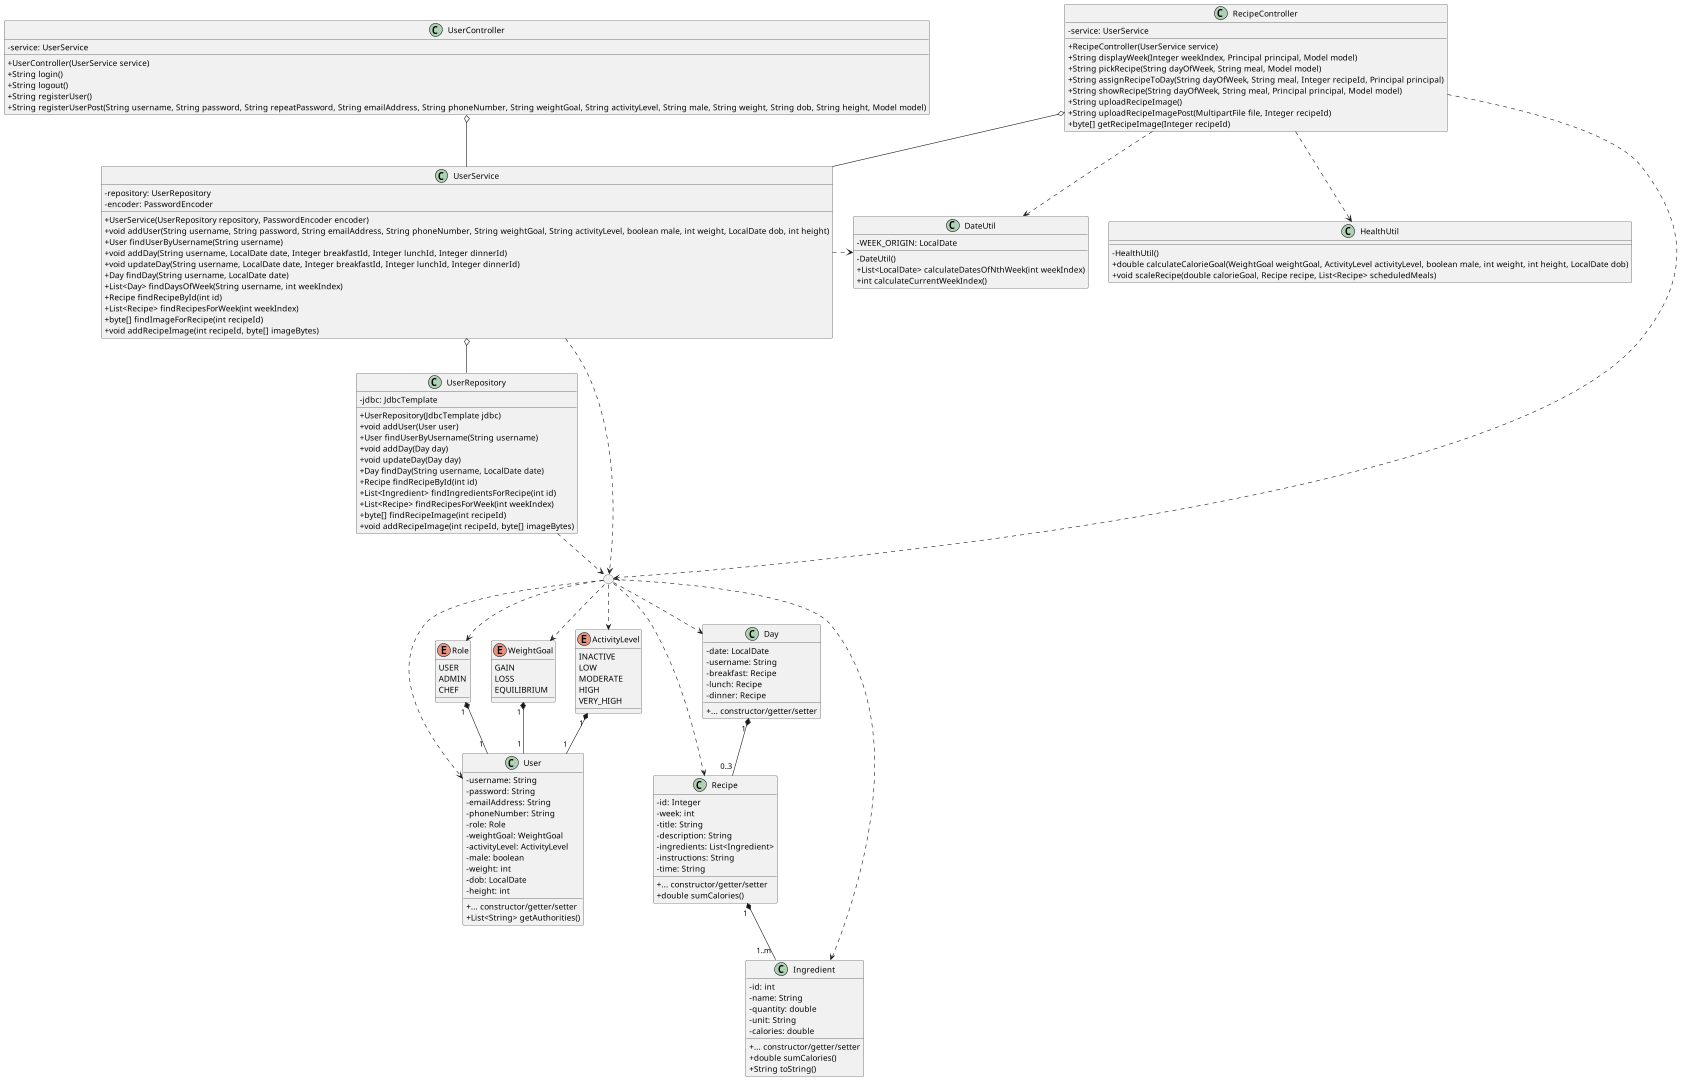
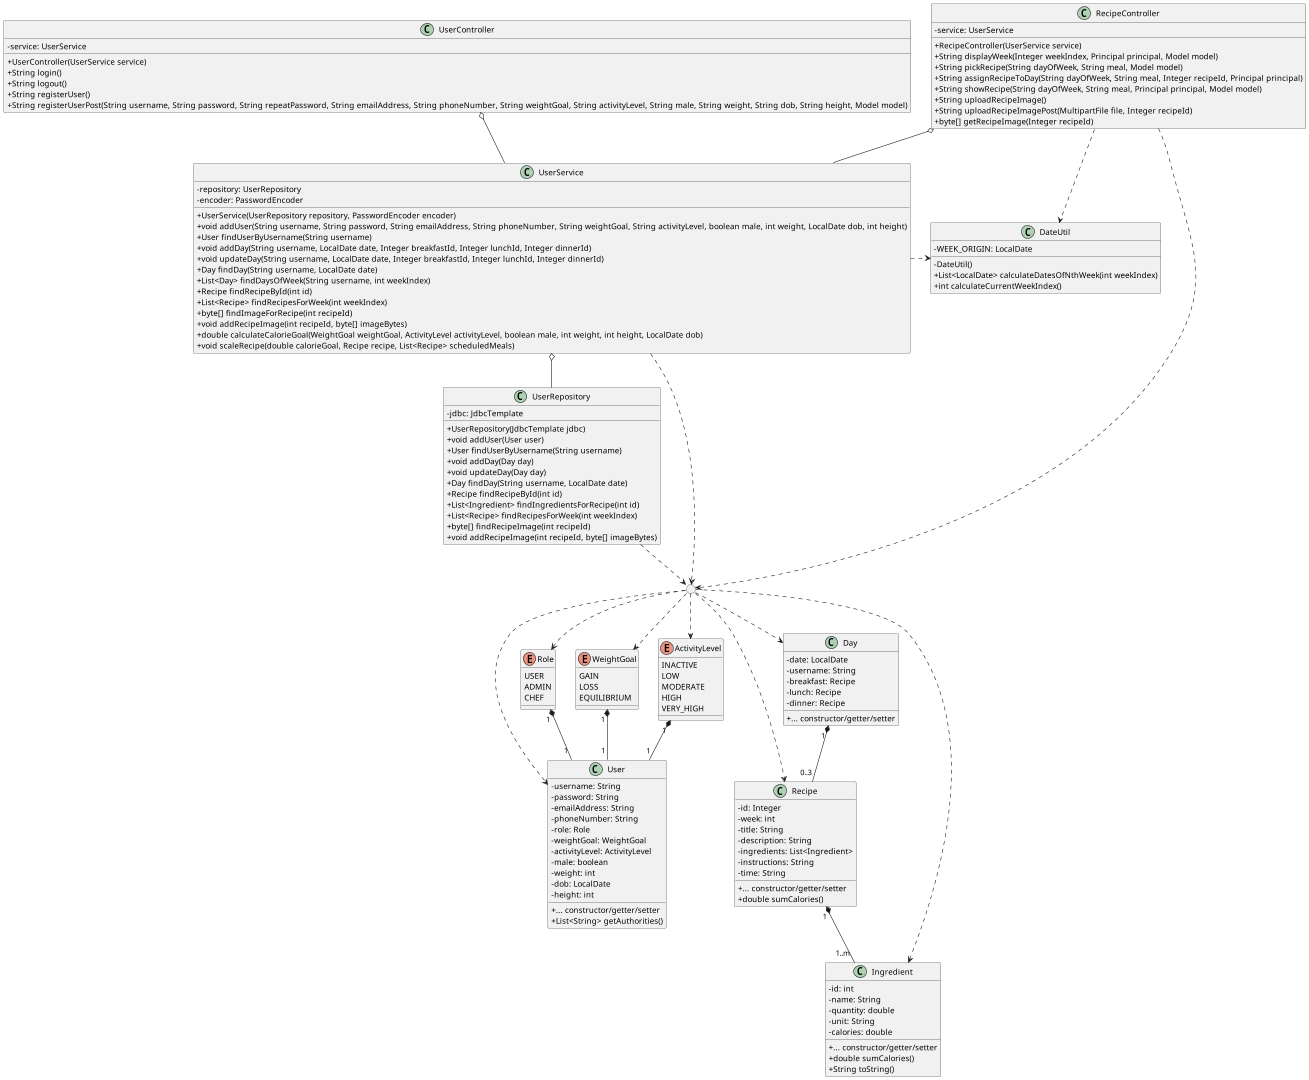
feat: delete HealthUtil

diff --git a/src/main/java/com/example/kostplan/service/UserService.java b/src/main/java/com/example/kostplan/service/UserService.java
@@ -9,9 +9,10 @@ import org.springframework.security.access.prepost.PreAuthorize;
 import org.springframework.security.crypto.password.PasswordEncoder;
 import org.springframework.stereotype.Service;
 
-import javax.xml.crypto.Data;
 import java.time.LocalDate;
+import java.time.temporal.ChronoUnit;
 import java.util.List;
+import java.util.Objects;
 
 @Service
 public class UserService {
@@ -198,5 +199,81 @@ public class UserService {
 		throws DataAccessException
 	{
 		this.repository.addRecipeImage(recipeId, imageBytes);
+	}
+
+	/**
+	 * Calculates a calorie goal based on a user's weight goal, a physical activity level and BMR (Basal Metabolic
+	 * Rate, using the revised Harris-Benedict equation).
+	 * @return A calorie goal.
+	 */
+	@PreAuthorize("#username == authentication.principal.username || hasRole('ADMIN')")
+	public double calculateCalorieGoal(String username)
+		throws DataAccessException
+	{
+		User user = this.findUserByUsername(username);
+
+		final double weightFactor = 10.0;
+		final double heightFactor = 6.25;
+		final double ageFactor = 5.0;
+		final double constantTerm = user.isMale() ? 5.0 : -161.0;
+
+		long ageInYears = ChronoUnit.YEARS.between(user.getDob(), LocalDate.now());
+		double bmr = (weightFactor * user.getWeight())
+			+ (heightFactor * user.getHeight())
+			- (ageFactor * ageInYears)
+			+ constantTerm;
+
+		long weightGoalTerm = 0;
+
+		if (user.getWeightGoal() != null) {
+			switch (user.getWeightGoal()) {
+				case EQUILIBRIUM -> {}
+				case GAIN -> weightGoalTerm = 500;
+				case LOSS -> weightGoalTerm = -500;
+				case MUSCLE -> weightGoalTerm = 300;
+			}
+		}
+
+		double activityLevelFactor = 1.2;
+
+		if (user.getActivityLevel() != null) {
+			switch (user.getActivityLevel()) {
+				case INACTIVE -> {}
+				case LOW -> activityLevelFactor = 1.5;
+				case MODERATE -> activityLevelFactor = 1.7;
+				case HIGH -> activityLevelFactor = 1.9;
+				case VERY_HIGH -> activityLevelFactor = 2.4;
+			}
+		}
+
+		return (bmr * activityLevelFactor) + weightGoalTerm;
+	}
+
+	/**
+	 * Scales a recipe up or down to meet a fixed calorie goal by modifying the recipe's ingredient list (specifically
+	 * the ingredient's quantity value). This takes into account a list of other meals a person has/will eat that day,
+	 * as to scale all meals proportionally.
+	 * @param calorieGoal The person's calorie goal.
+	 * @param recipe The recipe to scale up or down.
+	 * @param scheduledMeals The recipes of the meals the person will also eat that day.
+	 */
+	public void scaleRecipe(double calorieGoal, Recipe recipe, List<Recipe> scheduledMeals)
+		throws IllegalArgumentException
+	{
+		if (recipe == null || scheduledMeals == null) {
+			throw new IllegalArgumentException("Arguments must not be null.");
+		}
+
+		double totalCalories = recipe.sumCalories() + scheduledMeals.stream()
+			.filter(Objects::nonNull)
+			.map(Recipe::sumCalories)
+			.reduce(Double::sum)
+			.orElse(0.0);
+		double scaleFactor = calorieGoal / totalCalories;
+
+		for (Ingredient ingredient : recipe.getIngredients()) {
+			double newQuantity = ingredient.getQuantity() * scaleFactor;
+			ingredient.setQuantity(newQuantity);
+		}
 	}
 }

diff --git a/src/test/java/com/example/kostplan/RecipeTests.java b/src/test/java/com/example/kostplan/RecipeTests.java
@@ -1,16 +1,16 @@
 package com.example.kostplan;
 
-import com.example.kostplan.entity.ActivityLevel;
-import com.example.kostplan.entity.Ingredient;
-import com.example.kostplan.entity.Recipe;
-import com.example.kostplan.entity.WeightGoal;
-import com.example.kostplan.util.HealthUtil;
+import com.example.kostplan.entity.*;
+import com.example.kostplan.repository.UserRepository;
+import com.example.kostplan.service.UserService;
 import org.assertj.core.api.Assertions;
 import org.junit.jupiter.api.Test;
+import org.mockito.Mockito;
+import org.springframework.beans.factory.annotation.Autowired;
 import org.springframework.boot.test.context.SpringBootTest;
+import org.springframework.security.crypto.password.PasswordEncoder;
 
 import java.time.LocalDate;
-import java.util.ArrayList;
 import java.util.List;
 
 @SpringBootTest
@@ -32,7 +32,7 @@ class RecipeTests {
 	}
 
 	@Test
-	public void testScaleRecipe() {
+	public void testScaleRecipe(@Autowired UserService userService) {
 		final int calorieGoal = 100;
 
 		Recipe recipeToModify = createRecipeTemplate();
@@ -60,7 +60,7 @@ class RecipeTests {
 		final double caloriesBefore = recipeToModify.sumCalories();
 		Assertions.assertThat(caloriesBefore).isBetween(99.0, 101.0);
 
-		HealthUtil.scaleRecipe(
+		userService.scaleRecipe(
 			calorieGoal,
 			recipeToModify,
 			List.of(recipeA, recipeB)
@@ -75,16 +75,29 @@ class RecipeTests {
 
 
 	@Test
-	public void testCalculateCalorieGoal() {
-		double calorieGoal = HealthUtil.calculateCalorieGoal(
+	public void testCalculateCalorieGoal(@Autowired PasswordEncoder passwordEncoder) {
+		User testUser = new User(
+			"test-testUser",
+			"",
+			"",
+			"",
+			Role.USER,
 			WeightGoal.LOSS,
 			ActivityLevel.MODERATE,
 			false,
 			84,
-			174,
-			LocalDate.now().minusYears(42)
+			LocalDate.now().minusYears(42),
+			174
 		);
 
+		UserRepository mockRepo = Mockito.mock(UserRepository.class);
+		UserService service = new UserService(mockRepo, passwordEncoder);
+
+		Mockito
+			.when(mockRepo.findUserByUsername(testUser.getUsername()))
+			.thenReturn(testUser);
+
+		double calorieGoal = service.calculateCalorieGoal(testUser.getUsername());
 		Assertions.assertThat(calorieGoal).isBetween(2146.0, 2147.0);
 	}
 }

diff --git a/src/main/java/com/example/kostplan/controller/RecipeController.java b/src/main/java/com/example/kostplan/controller/RecipeController.java
@@ -2,10 +2,8 @@ package com.example.kostplan.controller;
 
 import com.example.kostplan.entity.Day;
 import com.example.kostplan.entity.Recipe;
-import com.example.kostplan.entity.User;
 import com.example.kostplan.service.UserService;
 import com.example.kostplan.util.DateUtil;
-import com.example.kostplan.util.HealthUtil;
 import org.springframework.beans.factory.annotation.Autowired;
 import org.springframework.dao.DataAccessException;
 import org.springframework.http.HttpStatus;
@@ -16,12 +14,10 @@ import org.springframework.web.bind.annotation.*;
 import org.springframework.web.multipart.MultipartFile;
 import org.springframework.web.server.ResponseStatusException;
 
-import java.io.IOException;
 import java.security.Principal;
 import java.time.LocalDate;
 import java.util.ArrayList;
 import java.util.List;
-import java.util.Objects;
 import java.util.Optional;
 
 @Controller
@@ -208,16 +204,8 @@ public class RecipeController {
 			return "redirect:/week?error=no-meal-assigned";
 		}
 
-		User user = this.service.findUserByUsername(principal.getName());
-		double calorieGoal = HealthUtil.calculateCalorieGoal(
-			user.getWeightGoal(),
-			user.getActivityLevel(),
-			user.isMale(),
-			user.getWeight(),
-			user.getHeight(),
-			user.getDob()
-		);
-		HealthUtil.scaleRecipe(calorieGoal, recipe, otherRecipes);
+		double calorieGoal = this.service.calculateCalorieGoal(principal.getName());
+		this.service.scaleRecipe(calorieGoal, recipe, otherRecipes);
 
 		model.addAttribute("calorieGoal", calorieGoal);
 		model.addAttribute("recipe", recipe);
